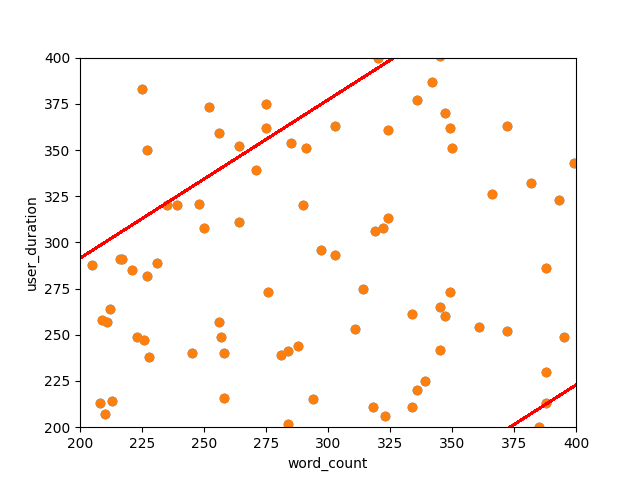
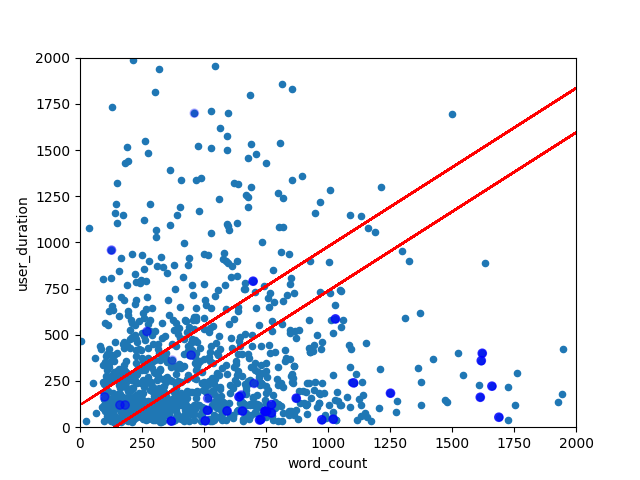
Add opacity to points based on the days since the corresponding user_reading_session was started

diff --git a/tools/_playground.py b/tools/_playground.py
@@ -7,7 +7,8 @@ import pandas as pd
 from zeeguu.core.model import db
 import matplotlib.pyplot as plt
 import numpy as np
-import pyarrow as pa # needed for pandas 
+import pyarrow as pa # needed for pandas
+from datetime import datetime
 
 from zeeguu.api.app import create_app
 from zeeguu.core.model.user_reading_session import UserReadingSession
@@ -15,6 +16,16 @@ from zeeguu.core.model.user_reading_session import UserReadingSession
 app = create_app()
 app.app_context().push()
 
+def days_since_to_opacity(days_since):
+    if days_since < 365 * 1/4:
+        return 1
+    elif days_since < 365 * 2/4:
+        return 0.75
+    elif days_since < 365 * 3/4:
+        return 0.5
+    elif days_since < 365:
+        return 0.25
+    return 0
 
 def translated_words_per_article(userId, articleId):
     activitySession = UserActivityData.query.filter_by(user_id=userId, article_id=articleId).all()
@@ -28,25 +39,25 @@ def get_expected_reading_time(word_count):
     return (word_count / 70) * 60
 
 def plot_urs_with_duration_and_word_count(df, file_name):
-    x_min, x_max = 200, 400
-    y_min, y_max = 200, 400
+    x_min, x_max = 0, 2000
+    y_min, y_max = 0, 2000
 
-    df.plot(kind = 'scatter', x = 'word_count', y = 'user_duration', color='blue')
+    df.plot(kind = 'scatter', x = 'word_count', y = 'user_duration')
+
+    plt.scatter(df['word_count'], df['user_duration'], alpha=[days_since_to_opacity(d) for d in df['days_since']], color='blue')
 
     x_values = df['word_count']
     y_values_line = [get_expected_reading_time(x) - 120 for x in x_values]
-    plt.scatter(df['word_count'], df['user_duration'], label='Data Points')
     plt.plot(x_values, y_values_line, color='red', label='y = ')
 
     x_values = df['word_count']
     y_values_line = [get_expected_reading_time(x) + 120 for x in x_values]
-    plt.scatter(df['word_count'], df['user_duration'], label='Data Points')
     plt.plot(x_values, y_values_line, color='red', label='y = ')
     plt.xlim(x_min, x_max)
     plt.ylim(y_min, y_max)
 
     plt.savefig(file_name + '.png')
-    print("Has been saved")
+    print("Saving file: " + file_name + ".png")
     plt.show()
 
 # This function makes a dataframe for one user with 
@@ -75,7 +86,7 @@ def isArticleLiked():
 
     averageReadingTime = 70 # wpm
     
-    readingSession = ( 
+    readingSession = (
         UserReadingSession.query
             .filter_by(user_id=user)
             .filter(UserReadingSession.article_id.isnot(None))
@@ -84,6 +95,7 @@ def isArticleLiked():
             .order_by(UserReadingSession.article_id.asc())
             .all()
     )
+    
     for session in readingSession:
         articleId = session.article_id
         article = Article.find_by_id(articleId)
@@ -97,7 +109,8 @@ def isArticleLiked():
                 'word_count': article.word_count,
                 'wpm': 0,
                 #'expectedWpm': 0,
-                'haveRead': 0
+                'haveRead': 0,
+                'days_since': (datetime.now() - session.start_time).days,
             }
         else:
             articleData[articleId]['user_duration'] += sessionDuration
